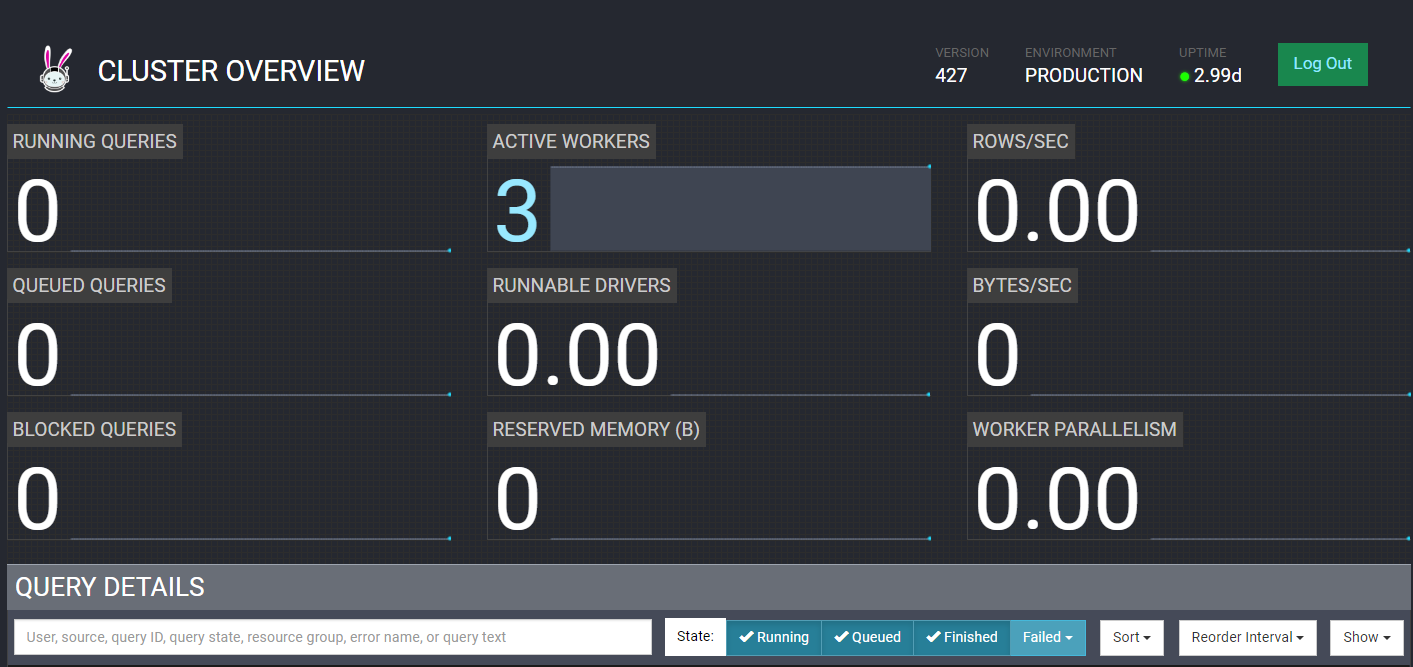
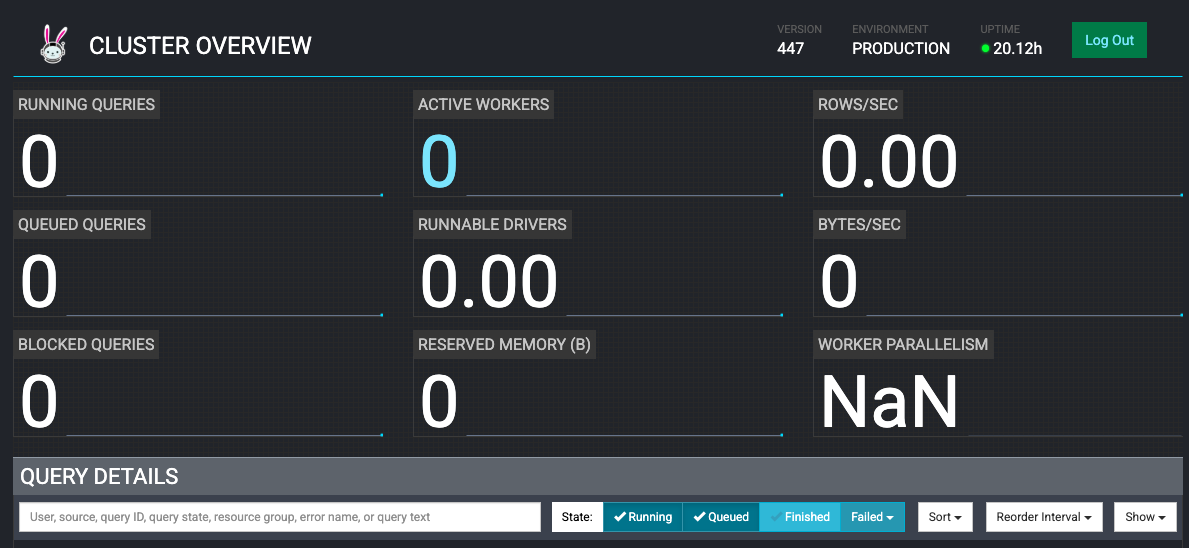
fix: Merge changes on main to update Kubecost  (#760)

Changed region(s): [[0.0, 0.031, 1.0, 1.0], [0.8091, 0.3723, 1.0, 0.4033]]

diff --git a/website/docs/blueprints/distributed-databases/trino.md b/website/docs/blueprints/distributed-databases/trino.md
@@ -70,15 +70,14 @@ aws eks update-kubeconfig --name trino-on-eks --region us-west-2
 First, let's verify that we have worker nodes provisioned by Karpenter in the cluster. Let's also see their availability zone and capacity type (on-demand or spot)
 
 ```bash
-kubectl get nodes --selector=karpenter.sh/nodepool=trino-karpenter -L topology.kubernetes.io/zone -L karpenter.sh/capacity-type -L node.kubernetes.io/instance-type
+kubectl get nodes --selector=karpenter.sh/nodepool=trino-sql-karpenter -L topology.kubernetes.io/zone -L karpenter.sh/capacity-type -L node.kubernetes.io/instance-type
 ```
 #### Output
 ```bash
 NAME                                        STATUS   ROLES    AGE   VERSION               ZONE         CAPACITY-TYPE   INSTANCE-TYPE
-ip-10-1-11-131.us-west-2.compute.internal   Ready    <none>   23m   v1.29.0-eks-5e0fdde   us-west-2b   spot            is4gen.2xlarge
 ip-10-1-11-49.us-west-2.compute.internal    Ready    <none>   24m   v1.29.0-eks-5e0fdde   us-west-2b   on-demand       t4g.medium
 ```
-We can see above that Karpenter provisioned on-demand node for running Trino coordinator and spot node for running Trino workers in the same availability zone.
+We can see above that Karpenter provisioned on-demand node for running Trino coordinator.
 :::info
 
 For a distributed Big Data query engine like Trino which runs on a massively parallel processing cluster, it is recommended to deploy the cluster in same availability zone to avoid incurring high Inter-AZ Data Transfer costs. That's why Karpenter NodePool has been configured to launch EKS nodes in same AZ
@@ -94,26 +93,19 @@ kubectl get pods --namespace=trino
 ```bash
 NAME                                 READY   STATUS    RESTARTS   AGE
 trino-coordinator-5cfd685c8f-mchff   1/1     Running   0          37m
-trino-worker-6c896d96d6-kr895        1/1     Running   0          37m
-trino-worker-6c896d96d6-llp9j        1/1     Running   0          37m
-trino-worker-6c896d96d6-zpglv        1/1     Running   0          37m
-```
-Next, we will retrieve the Application Load Balancer DNS fronting Trino service from Ingress object
-
-```bash
-export TRINO_UI_DNS=$(kubectl describe ingress --namespace=trino | grep Address: | awk '{ print "http://"$2 }')
-echo $TRINO_UI_DNS
-```
-#### Output
-```bash
-http://k8s-trino-trinocoo-f64c9587b5-1488329710.us-west-2.elb.amazonaws.com
 ```
 
-Now, lets access the Trino UI by pasting above Load Balancer DNS in a web browser and login with username `admin` in the login window as shown below:
+Next, we will port-forward the trino service so it can be accessed locally
+
+```bash
+kubectl -n trino port-forward service/trino 8080:8080
+```
+
+Now, lets access the Trino UI at `http://localhost:8080` through web browser and login with username `admin` in the login window as shown below:
 
 ![Trino UI Login](./img/trino-ui-login.PNG)
 
-We can see Trino Web UI showing 3 active workers
+Trino Web UI will show 0 active worker:
 
 ![Trino UI](./img/trino-ui.PNG)
 
@@ -141,10 +133,9 @@ You will see some outputs to show progress, and if successful, will see the name
 #### Running the queries
 You should have the Trino CLI installed as part of the prerequisite. The blueprint has the Hive Connector configured with the bucket we set up in the previous section, so you should be able to query the data source without additional settings.
 
-First, port-forward your trino coordinator pod to access it locally:
+First, port-forward your trino service to access it locally, if you have closed the session from previous section:
 ```
-COORDINATOR_POD=$(kubectl get pods -l "app=trino,release=trino,component=coordinator" -o name -n trino)
-kubectl port-forward $COORDINATOR_POD -n trino 8080:8080
+kubectl -n trino port-forward service/trino 8080:8080
 ```
 
 While the port-forward is running, open another terminal tab where you have Trino CLI and run the following command to access the coordinator:
@@ -152,7 +143,7 @@ While the port-forward is running, open another terminal tab where you have Trin
 ./trino http://127.0.0.1:8080 --user admin
 ```
 
-Once successful, you will be able to get a prompt to execute commands. You can use `help` command to see a list of supported commands.
+Once successful, you will be able to get a prompt to execute commands. You can use `help` command to see a list of supported commands.  The first command you run will trigger the auto-scaling of trino workers from 0 to 1, and take a couple minutes to complete.
 
 For example:
 
@@ -240,8 +231,8 @@ echo $BUCKET
 trino-data-bucket-20240215180855515400000001
 ```
 
-- Let’s now create an Iceberg schema with tables populated with data from sf10000 schema tables of [TPCDS](https://trino.io/docs/current/connector/tpcds.html). We will use CREATE TABLE AS SELECT (CTAS) statements. For that, open a new terminal where you have Trino CLI installed and create a SQL file `trino_sf10000_tpcds_to_iceberg.sql` by copying below SQL statements
-##### (Don't forget to replace S3 bucket name for LOCATION below with your bucket from above command):
+- Let’s now create an Iceberg schema with tables populated with data from sf10000 schema tables of [TPCDS](https://trino.io/docs/current/connector/tpcds.html). We will use CREATE TABLE AS SELECT (CTAS) statements. The SQL file `examples/trino_sf10000_tpcds_to_iceberg.sql` has the below SQL statements:
+
 ```bash
 use tpcds.sf10000;
 select * from tpcds.sf10000.item limit 10;
@@ -386,36 +377,34 @@ order by inv1.w_warehouse_sk,inv1.i_item_sk,inv1.d_moy,inv1.mean,inv1.cov,inv2.d
 
 - Let's now execute above SQL commands using Trino CLI:
 ```bash
-export TRINO_UI_DNS=$(kubectl describe ingress --namespace=trino | grep Address: | awk '{ print "http://"$2 }')
-./trino --file 'trino_sf10000_tpcds_to_iceberg.sql' --server ${TRINO_UI_DNS} --user admin --ignore-errors
+envsubst < examples/trino_sf10000_tpcds_to_iceberg.sql > examples/iceberg.sql
+./trino --file 'examples/iceberg.sql' --server http://localhost:8080 --user admin --ignore-errors
 ```
 
 - You can see completed and running SQL queries in Trino UI web monitor as below:
 
 ![Trino Queries](./img/trino-queries.PNG)
 
-- Let’s open another terminal and see how Horizontal Pod Autoscaler (HPA) is scaling Trino worker pods, when above SQL commands are running:
+- Let’s open another terminal and see how KEDA is scaling Trino worker pods, when above SQL commands are running:
 ```bash
 kubectl get hpa -n trino -w
 ```
 #### Output
 ```bash
-NAME           REFERENCE                 TARGETS   MINPODS   MAXPODS   REPLICAS   AGE
-trino-worker   Deployment/trino-worker   0%/70%    3         20        3          3d2h
-trino-worker   Deployment/trino-worker   0%/70%    3         20        3          3d2h
-trino-worker   Deployment/trino-worker   170%/70%   3         20        3          3d2h
-trino-worker   Deployment/trino-worker   196%/70%   3         20        6          3d2h
-trino-worker   Deployment/trino-worker   197%/70%   3         20        9          3d2h
-trino-worker   Deployment/trino-worker   197%/70%   3         20        9          3d2h
-trino-worker   Deployment/trino-worker   197%/70%   3         20        9          3d2h
-trino-worker   Deployment/trino-worker   125%/70%   3         20        9          3d2h
-trino-worker   Deployment/trino-worker   43%/70%    3         20        9          3d2h
-trino-worker   Deployment/trino-worker   152%/70%   3         20        9          3d2h
-trino-worker   Deployment/trino-worker   179%/70%   3         20        9          3d2h
+NAME                                REFERENCE                 TARGETS                MINPODS   MAXPODS   REPLICAS   AGE
+keda-hpa-keda-scaler-trino-worker   Deployment/trino-worker   <unknown>/1, <unknown>/1 + 1 more...   1         15        0          37m
+keda-hpa-keda-scaler-trino-worker   Deployment/trino-worker   0/1, 1/1 + 1 more...                   1         15        1          38m
+keda-hpa-keda-scaler-trino-worker   Deployment/trino-worker   0/1, 500m/1 + 1 more...                1         15        1          40m
+keda-hpa-keda-scaler-trino-worker   Deployment/trino-worker   0/1, 0/1 + 1 more...                   1         15        1          40m
+keda-hpa-keda-scaler-trino-worker   Deployment/trino-worker   0/1, 0/1 + 1 more...                   1         15        1          40m
+keda-hpa-keda-scaler-trino-worker   Deployment/trino-worker   0/1, 0/1 + 1 more...                   1         15        1          40m
+keda-hpa-keda-scaler-trino-worker   Deployment/trino-worker   0/1, 0/1 + 1 more...                   1         15        2          41m
+keda-hpa-keda-scaler-trino-worker   Deployment/trino-worker   0/1, 0/1 + 1 more...                   1         15        2          41m
+keda-hpa-keda-scaler-trino-worker   Deployment/trino-worker   0/1, 0/1 + 1 more...                   1         15        2          41m
 ```
-You can see HPA scaling from initial 3 workers to 9 workers running in Trino UI with increasing query load and average cpu utilization of workerss:
+You can see HPA scaling from initial 0 workers to 2 workers with increasing query load and average cpu utilization of workerss:
 
-![Trino Scaling](./img/trino-workers-scaling.PNG)
+![Trino Scaling](./img/trino-workers-scaling.png)
 
 ### Example #3 (Optional): Fault-tolerant execution in Trino
 [Fault-tolerant execution](https://trino.io/docs/current/admin/fault-tolerant-execution.html) is an opt-in mechanism in Trino that was implemented using [Project Tardigrade](https://trino.io/blog/2022/05/05/tardigrade-launch.html#what-is-project-tardigrade). Without fault-tolerant configuration, Trino query fails whenever any of the component tasks of the query fails due to any reason (for example, a worker node failure or termination). These failed queries have to be restarted from scratch resulting in longer execution time, compute wastage, and spend, especially for long-running queries.
@@ -428,7 +417,7 @@ A **TASK retry policy** instructs Trino to retry individual tasks in the event o
 :::
 - This blueprint has deployed Trino cluster with fault-tolerant configuration with a `TASK` retry policy in **`config.properties`** file in coordinator and worker pods. Let's verify that by opening a bash command shell inside coordinator pod:
 ```bash
-COORDINATOR_POD=$(kubectl get pods -l "app=trino,release=trino,component=coordinator" -o name -n trino)
+COORDINATOR_POD=$(kubectl get pods -l "app.kubernetes.io/instance=trino,app.kubernetes.io/component=coordinator" -o name -n trino)
 kubectl exec --stdin --tty $COORDINATOR_POD -n trino -- /bin/bash
 cat /etc/trino/config.properties
 ```
@@ -437,8 +426,8 @@ cat /etc/trino/config.properties
 coordinator=true
 node-scheduler.include-coordinator=false
 http-server.http.port=8080
-query.max-memory=40GB
-query.max-memory-per-node=4GB
+query.max-memory=280GB
+query.max-memory-per-node=22GB
 discovery.uri=http://localhost:8080
 retry-policy=TASK
 exchange.compression-enabled=true
@@ -464,7 +453,7 @@ exit
 ```
 
 With below steps, we will now test fault-tolerant execution by running a `select` query and terminate few Trino workers when query is still running.
-- Let's create a `trino_select_query_iceberg.sql` file in the location where Trino CLI is installed and paste below SQL commands:
+- Find the file `trino_select_query_iceberg.sql` file in the `examples` folder, which contains the SQL commands below:
 ```bash
 with inv as
 (select w_warehouse_name,w_warehouse_sk,i_item_sk,d_moy
@@ -493,8 +482,7 @@ order by inv1.w_warehouse_sk,inv1.i_item_sk,inv1.d_moy,inv1.mean,inv1.cov,inv2.d
 ```
 - Let's now run select query first
 ```bash
-export TRINO_UI_DNS=$(kubectl describe ingress --namespace=trino | grep Address: | awk '{ print "http://"$2 }')
-./trino --file 'trino_select_query_iceberg.sql' --server ${TRINO_UI_DNS} --user admin --ignore-errors
+./trino --file 'examples/trino_select_query_iceberg.sql' --server http://localhost:8080 --user admin --ignore-errors
 ```
 - Immediately after above command, when above query is still running, open another terminal and scale down worker pods to just 1 worker, terminating all other workers with command below:
 ```bash
@@ -522,9 +510,9 @@ Also you can see different number of active workers depending upon worker pods s
 
 1. Let's open Trino CLI
 ```bash
-export TRINO_UI_DNS=$(kubectl describe ingress --namespace=trino | grep Address: | awk '{ print "http://"$2 }')
-./trino --server ${TRINO_UI_DNS} --user admin
+./trino http://127.0.0.1:8080 --user admin
 ```
+
 2. Now, let's delete Iceberg tables and schema by running below SQL commands on Trino CLI:
  ```bash
 drop table iceberg.iceberg_schema.warehouse;

diff --git a/analytics/terraform/spark-k8s-operator/README.md b/analytics/terraform/spark-k8s-operator/README.md
@@ -11,7 +11,7 @@ Checkout the [documentation website](https://awslabs.github.io/data-on-eks/docs/
 | <a name="requirement_helm"></a> [helm](#requirement\_helm) | >= 2.4.1 |
 | <a name="requirement_kubectl"></a> [kubectl](#requirement\_kubectl) | >= 2.0 |
 | <a name="requirement_kubernetes"></a> [kubernetes](#requirement\_kubernetes) | >= 2.10 |
-| <a name="requirement_random"></a> [random](#requirement\_random) | >=3.6.0 |
+| <a name="requirement_random"></a> [random](#requirement\_random) | >= 3.6.0 |
 
 ## Providers
 
@@ -20,7 +20,7 @@ Checkout the [documentation website](https://awslabs.github.io/data-on-eks/docs/
 | <a name="provider_aws"></a> [aws](#provider\_aws) | >= 5.34 |
 | <a name="provider_aws.ecr"></a> [aws.ecr](#provider\_aws.ecr) | >= 5.34 |
 | <a name="provider_kubernetes"></a> [kubernetes](#provider\_kubernetes) | >= 2.10 |
-| <a name="provider_random"></a> [random](#provider\_random) | >=3.6.0 |
+| <a name="provider_random"></a> [random](#provider\_random) | >= 3.6.0 |
 
 ## Modules
 
@@ -79,17 +79,17 @@ Checkout the [documentation website](https://awslabs.github.io/data-on-eks/docs/
 | Name | Description | Type | Default | Required |
 |------|-------------|------|---------|:--------:|
 | <a name="input_eks_cluster_version"></a> [eks\_cluster\_version](#input\_eks\_cluster\_version) | EKS Cluster version | `string` | `"1.31"` | no |
-| <a name="input_eks_data_plane_subnet_secondary_cidr"></a> [eks\_data\_plane\_subnet\_secondary\_cidr](#input\_eks\_data\_plane\_subnet\_secondary\_cidr) | Secondary CIDR blocks. 32766 IPs per Subnet per Subnet/AZ for EKS Node and Pods | `list(string)` | <pre>[<br>  "100.64.0.0/17",<br>  "100.64.128.0/17"<br>]</pre> | no |
+| <a name="input_eks_data_plane_subnet_secondary_cidr"></a> [eks\_data\_plane\_subnet\_secondary\_cidr](#input\_eks\_data\_plane\_subnet\_secondary\_cidr) | Secondary CIDR blocks. 32766 IPs per Subnet per Subnet/AZ for EKS Node and Pods | `list(string)` | <pre>[<br/>  "100.64.0.0/17",<br/>  "100.64.128.0/17"<br/>]</pre> | no |
 | <a name="input_enable_amazon_prometheus"></a> [enable\_amazon\_prometheus](#input\_enable\_amazon\_prometheus) | Enable AWS Managed Prometheus service | `bool` | `true` | no |
 | <a name="input_enable_jupyterhub"></a> [enable\_jupyterhub](#input\_enable\_jupyterhub) | Enable Jupyter Hub | `bool` | `false` | no |
 | <a name="input_enable_vpc_endpoints"></a> [enable\_vpc\_endpoints](#input\_enable\_vpc\_endpoints) | Enable VPC Endpoints | `bool` | `false` | no |
 | <a name="input_enable_yunikorn"></a> [enable\_yunikorn](#input\_enable\_yunikorn) | Enable Apache YuniKorn Scheduler | `bool` | `false` | no |
 | <a name="input_kms_key_admin_roles"></a> [kms\_key\_admin\_roles](#input\_kms\_key\_admin\_roles) | list of role ARNs to add to the KMS policy | `list(string)` | `[]` | no |
 | <a name="input_name"></a> [name](#input\_name) | Name of the VPC and EKS Cluster | `string` | `"spark-operator-doeks"` | no |
-| <a name="input_private_subnets"></a> [private\_subnets](#input\_private\_subnets) | Private Subnets CIDRs. 254 IPs per Subnet/AZ for Private NAT + NLB + Airflow + EC2 Jumphost etc. | `list(string)` | <pre>[<br>  "10.1.1.0/24",<br>  "10.1.2.0/24"<br>]</pre> | no |
-| <a name="input_public_subnets"></a> [public\_subnets](#input\_public\_subnets) | Public Subnets CIDRs. 62 IPs per Subnet/AZ | `list(string)` | <pre>[<br>  "10.1.0.0/26",<br>  "10.1.0.64/26"<br>]</pre> | no |
+| <a name="input_private_subnets"></a> [private\_subnets](#input\_private\_subnets) | Private Subnets CIDRs. 254 IPs per Subnet/AZ for Private NAT + NLB + Airflow + EC2 Jumphost etc. | `list(string)` | <pre>[<br/>  "10.1.1.0/24",<br/>  "10.1.2.0/24"<br/>]</pre> | no |
+| <a name="input_public_subnets"></a> [public\_subnets](#input\_public\_subnets) | Public Subnets CIDRs. 62 IPs per Subnet/AZ | `list(string)` | <pre>[<br/>  "10.1.0.0/26",<br/>  "10.1.0.64/26"<br/>]</pre> | no |
 | <a name="input_region"></a> [region](#input\_region) | Region | `string` | `"us-west-2"` | no |
-| <a name="input_secondary_cidr_blocks"></a> [secondary\_cidr\_blocks](#input\_secondary\_cidr\_blocks) | Secondary CIDR blocks to be attached to VPC | `list(string)` | <pre>[<br>  "100.64.0.0/16"<br>]</pre> | no |
+| <a name="input_secondary_cidr_blocks"></a> [secondary\_cidr\_blocks](#input\_secondary\_cidr\_blocks) | Secondary CIDR blocks to be attached to VPC | `list(string)` | <pre>[<br/>  "100.64.0.0/16"<br/>]</pre> | no |
 | <a name="input_spark_benchmark_ssd_desired_size"></a> [spark\_benchmark\_ssd\_desired\_size](#input\_spark\_benchmark\_ssd\_desired\_size) | Desired size for nodegroup of c5d 12xlarge instances to run data generation for Spark benchmark | `number` | `0` | no |
 | <a name="input_spark_benchmark_ssd_min_size"></a> [spark\_benchmark\_ssd\_min\_size](#input\_spark\_benchmark\_ssd\_min\_size) | Minimum size for nodegroup of c5d 12xlarge instances to run data generation for Spark benchmark | `number` | `0` | no |
 | <a name="input_vpc_cidr"></a> [vpc\_cidr](#input\_vpc\_cidr) | VPC CIDR. This should be a valid private (RFC 1918) CIDR range | `string` | `"10.1.0.0/16"` | no |
